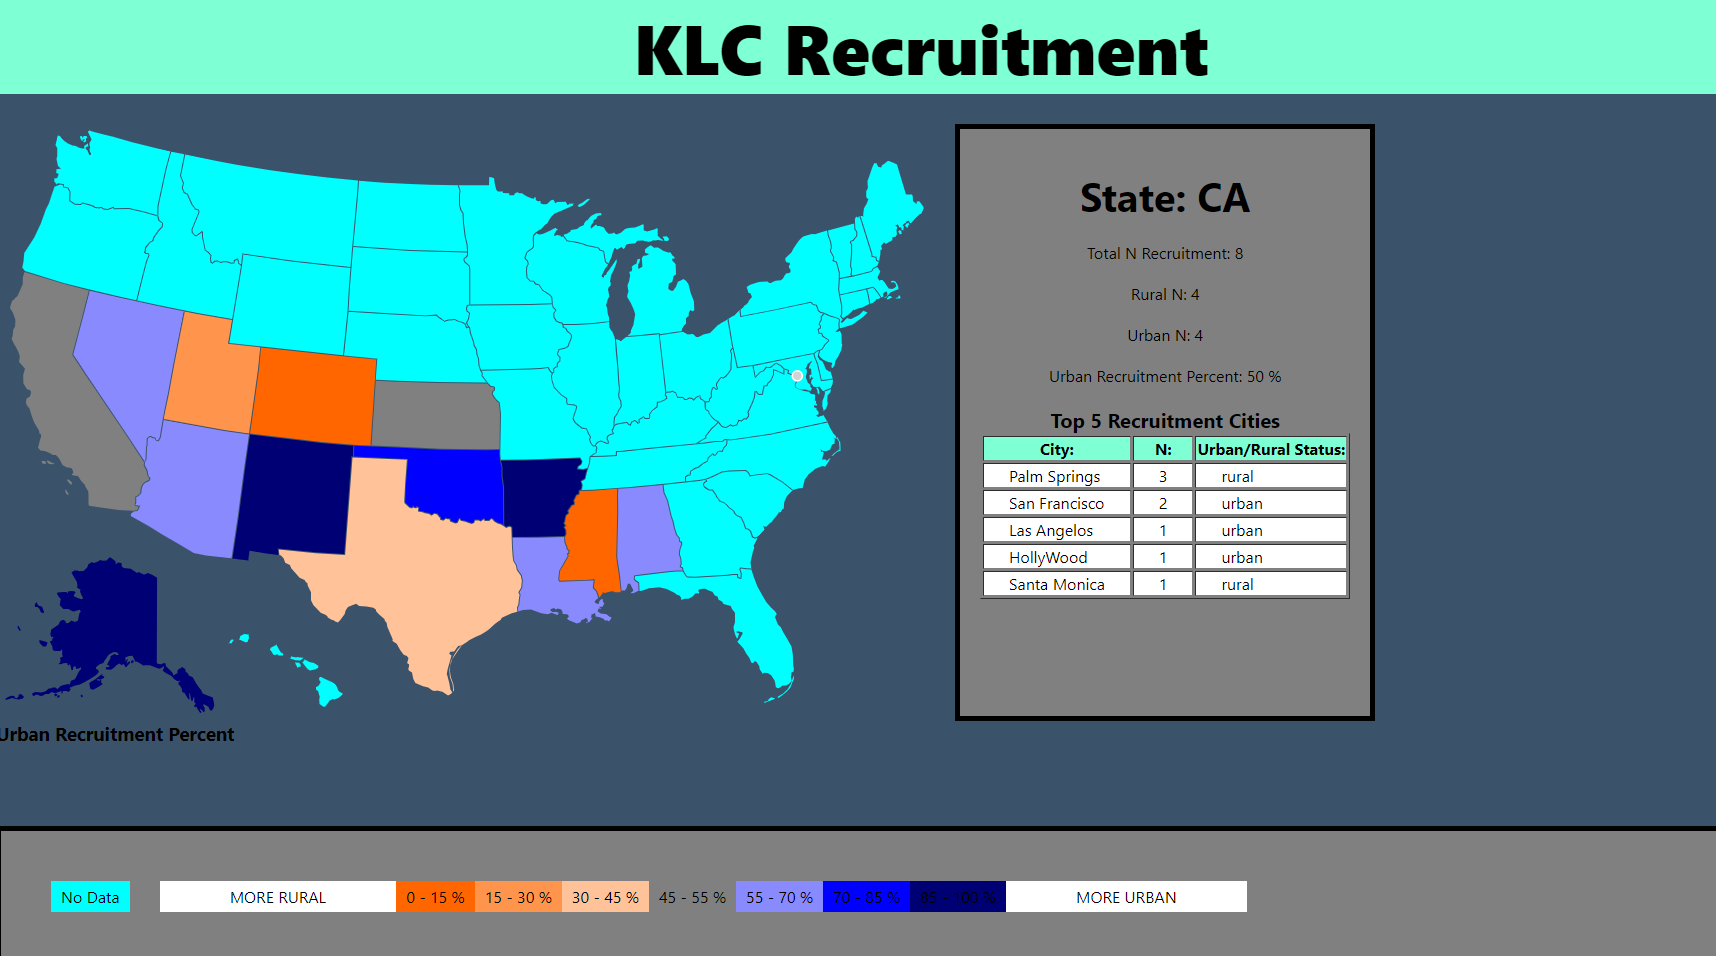
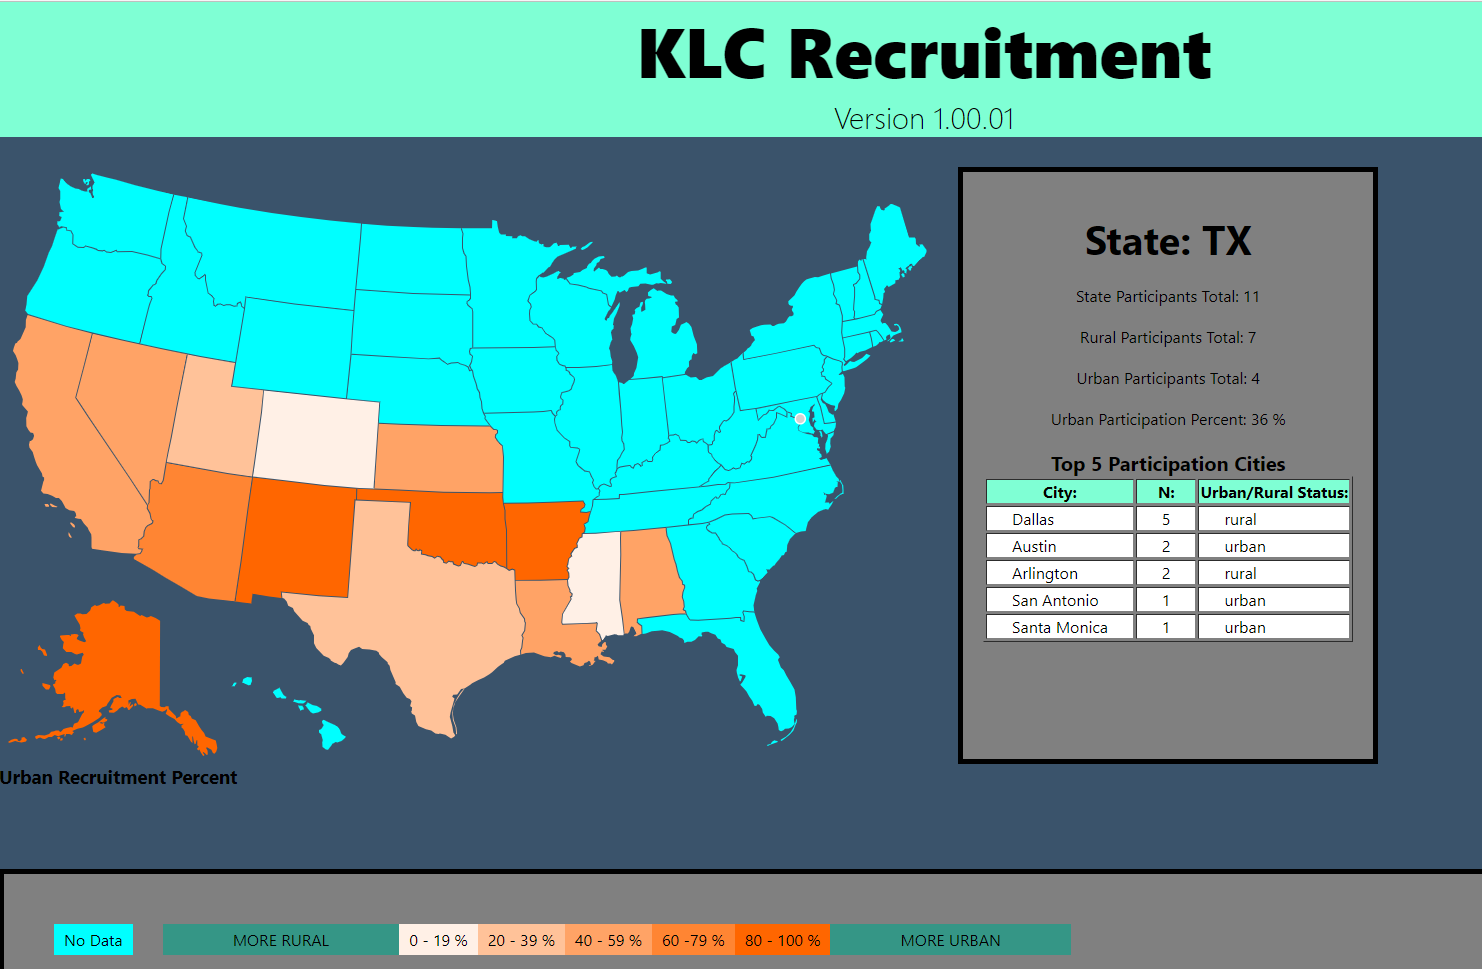
updated the map colors, updated the legend, updated some wrong term use

diff --git a/client/src/pages/Map.js b/client/src/pages/Map.js
@@ -202,10 +202,10 @@ function Map() {
                                 <h1>State: {stateStats.state}</h1>
                                 {(stateStats.length) !== 0 ? (
                                     <div>
-                                        <p>Total N Recruitment: {stateStats.total}</p>
-                                        <p>Rural N: {stateStats.rural}</p>
-                                        <p>Urban N: {stateStats.urban}</p>
-                                        <p>Urban Recruitment Percent: {stateStats.percent} %</p>
+                                        <p>State Participants Total: {stateStats.total}</p>
+                                        <p>Rural Participants Total: {stateStats.rural}</p>
+                                        <p>Urban Participants Total: {stateStats.urban}</p>
+                                        <p>Urban Participation Percent: {stateStats.percent} %</p>
                                     </div>
                                 ) : (
                                     <div>
@@ -222,7 +222,7 @@ function Map() {
                     <div>
                         {stateStats2.length !== 0 && (
                             <div>
-                              <h2>Top {stateStats2.length} Recruitment Cities</h2>         
+                              <h2>Top {stateStats2.length} Participation Cities</h2>         
                               <table border="1" class='table-map-results'>
                                 <tr>
                                   <th>City:</th>
@@ -246,13 +246,11 @@ function Map() {
             <section class='legend'>
                 <p id='colorNone' class='tag-none'>No Data</p> 
                 <p class='tag'> MORE RURAL</p>
-                <p id='colorOne'>0 - 15 % </p>
-                <p id='colorTwo'>15 - 30 % </p>
-                <p id='colorThree'>30 - 45 % </p>
-                <p id='colorFour'>45 - 55 % </p>
-                <p id='colorFive'>55 - 70 % </p>
-                <p id='colorSix'>70 - 85 % </p>
-                <p id='colorSeven'>85 - 100 % </p>
+                <p id='colorOne'>0 - 19 % </p>
+                <p id='colorTwo'>20 - 39 % </p>
+                <p id='colorThree'>40 - 59 % </p>
+                <p id='colorFour'>60 -79 % </p>
+                <p id='colorFive'>80 - 100 % </p>
                 <p class='tag'>MORE URBAN</p>
             </section>
         </section>

diff --git a/client/src/functions/index.js b/client/src/functions/index.js
@@ -52,20 +52,16 @@ export const fillColor = (state, arr) => {
     const totalN = stateObj.urban + stateObj.rural;
     const colorPercent = Math.round((urbanN / totalN) * 100);
     
-    if (colorPercent > -1 && colorPercent < 15) {
-      return "#FF6600";
-    } else if (colorPercent < 30 ) {
-      return "#FF944D";
-    } else if (colorPercent < 45 ) {
+    if (colorPercent > -1 && colorPercent < 20) {
+      return "#FFF0E6";
+    } else if (colorPercent < 40 ) {
       return "#FFC299";
-    } else if (colorPercent < 55 ) {
-      return "#808080";
-    } else if (colorPercent < 70 ) {
-      return "#8A8AFF";
-    } else if (colorPercent < 85 ) {
-      return "#0000FF";
+    } else if (colorPercent < 60 ) {
+      return "#FFA366";
+    } else if (colorPercent < 80 ) {
+      return "#FF8533";
     } else if (colorPercent < 101 ) {
-      return "#000075";
+      return "#FF6600";
     };
   }
   return "#00FFFF";

diff --git a/client/src/index.css b/client/src/index.css
@@ -119,31 +119,27 @@ background-color: yellow;
 }
 
 .map .legend #colorOne {
-  background-color: #FF6600;
+  background-color: #FFF0E6;
 }
 
 .map .legend #colorTwo {
-  background-color: #FF944D;
-}
-
-.map .legend #colorThree {
   background-color: #FFC299;
 }
 
+.map .legend #colorThree {
+  background-color: #FFA366;
+}
+
 .map .legend #colorFour {
-  background-color: #808080;
+  background-color: #FF8533;
 }
 
 .map .legend #colorFive {
-  background-color: #8A8AFF;
+  background-color: #FF6600;
 }
 
-.map .legend #colorSix {
-  background-color: #0000FF;
-}
-
-.map .legend #colorSeven {
-  background-color: #000075;
+.map .legend .tag {
+  background-color: rgb(53, 150, 134);
 }
 
 /* Footer */

diff --git a/client/src/components/Header/index.js b/client/src/components/Header/index.js
@@ -4,7 +4,7 @@ function Header() {
     return(
         <section class='header'>
             <h1>KLC Recruitment</h1>
-            <h4>Version 1.00.01</h4>
+            <h4>Version 1.01.02</h4>
         </section>
     )
 };

diff --git a/README.md b/README.md
@@ -3,14 +3,18 @@
 ## Table of Contents
 
 [Description](#description)
+
 [Tools](#tools)
+
 [Deployed_Application](#deployed-application)
+
 [Future_Developments](#future-developments)
+
 [Screenshots](#screenshots)
 
 ## Description
 
-This front-end react application is used to look at the recruiment efforts of the KLC team in the United States.
+This front-end react application is used to look at the participation in Kidney Learning Center Activities for the National Kidney Foundation. Users can interact with the app by selecting individual states, which then populateds the gray section with relevant information. The user can then see the breakdown of Urban vs Rural participation, as well as see the top five particiaption cities (detailed with their total N and Urban/Rural status).
 
 ## Tools
 
@@ -21,7 +25,7 @@ This front-end react application is used to look at the recruiment efforts of th
 
 ## Deployed Application
 
-The deployed application can be seen at https://bsovic23.github.io/kls-heat-map/
+The deployed application can be found at https://bsovic23.github.io/kls-heat-map/
 
 ## Future Developments
 
@@ -32,4 +36,4 @@ The deployed application can be seen at https://bsovic23.github.io/kls-heat-map/
 
 ## Screenshots
 
-![Screenshot of Application](../kls-heat-map/client/src/images/homepage.PNG)
+![Screenshot of Application](./client/src/images/homepage.PNG)
